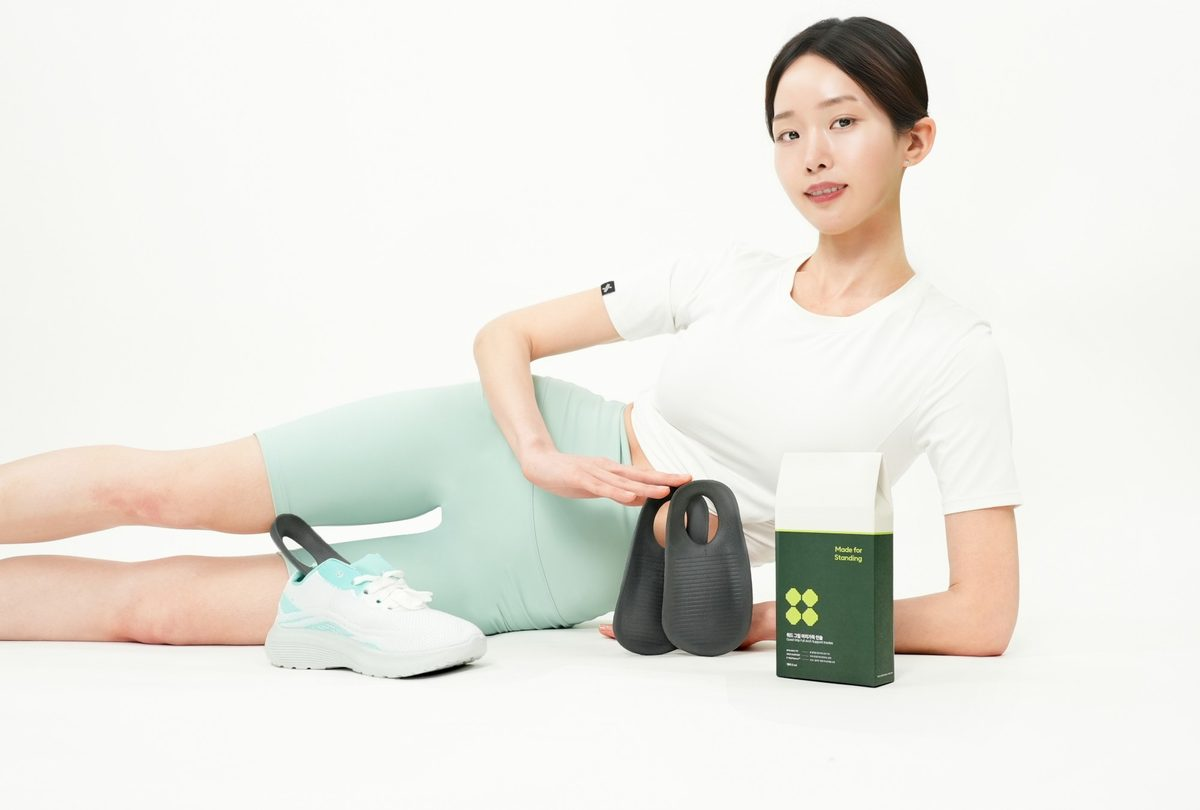
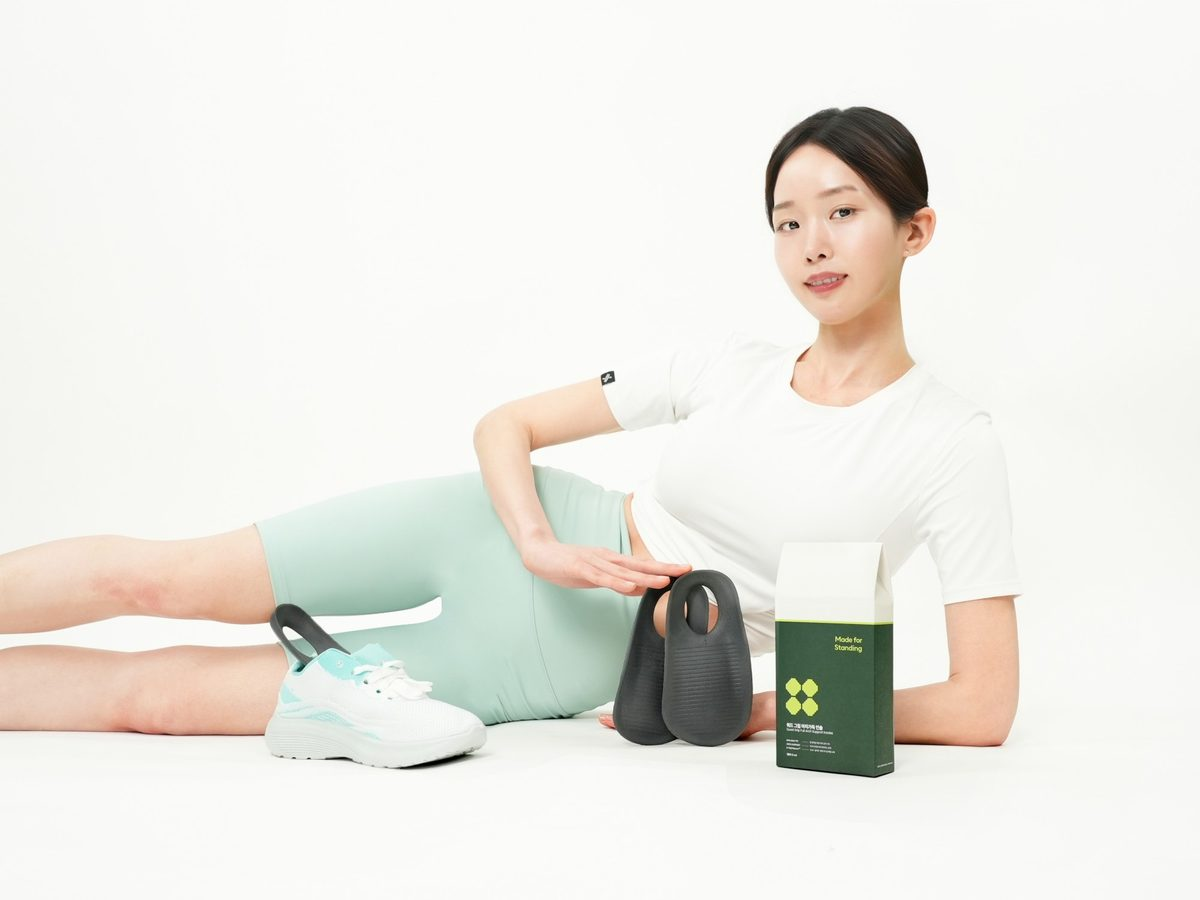
RS 랜딩: 제품 사진 자르지 않고 전체 이미지로 표시
Claude-Session: https://claude.ai/code/session_01WbwBaiEPCZ7zKuMjGg7vqH

Changed region(s): [[0.0, 0.3395, 0.8633, 0.8642], [0.6167, 0.0, 0.8017, 0.463]]

diff --git a/launch/rs/landing/index.html b/launch/rs/landing/index.html
@@ -111,7 +111,6 @@ h2{font-size:22px;line-height:30px;margin:8px 0 12px}
 #brand+.story{border-top:0;padding-top:0}
 .igrid{display:grid;grid-template-columns:repeat(3,1fr);gap:4px;margin-top:20px;border-radius:14px;overflow:hidden}
 .igrid img{width:100%;aspect-ratio:3/4;object-fit:cover;display:block}
-.pair{display:grid;grid-template-columns:1fr 1fr;gap:8px;margin-top:20px}.pair img{width:100%;aspect-ratio:4/3;object-fit:cover;border-radius:12px;display:block;background:var(--s1)}
 .teaser{position:relative;border-radius:16px;overflow:hidden;margin-top:20px;background:var(--s1)}
 .teaser img{width:100%;display:block}
 .teaser .over{position:absolute;left:12px;top:12px;padding:6px 12px;background:var(--forest);color:#fff;border-radius:9999px;display:flex;gap:8px;align-items:center}
@@ -219,11 +218,10 @@ footer a{color:var(--t2)}
     <p class="eyebrow"><b>PRODUCT 01</b> · 와디즈 펀딩 <span class="js-fund"></span> 오픈 예정</p>
     <h2>신던 신발은 그대로,<br>바닥만 새로.</h2>
     <p class="lead">쿼드그립 아치가득 인솔 · 가지고 계신 신발에 넣어 쓰는 아치 인솔.</p>
-    <div class="pair">
-      <img src="img/insole-pack-full.jpg" alt="쿼드그립 아치가득 인솔 실제 제품 그레이 한 쌍과 패키지" loading="lazy">
-      <img src="img/insole-pack-mocha.jpg" alt="쿼드그립 아치가득 인솔 실제 제품 모카무스 한 쌍과 패키지" loading="lazy">
-    </div>
-    <p class="note">실제 제품 사진 · 왼쪽 그레이 · 오른쪽 모카무스</p>
+    <img class="media" src="img/insole-pack-full.jpg" alt="쿼드그립 아치가득 인솔 실제 제품 그레이 한 쌍과 패키지" loading="lazy" style="margin-top:20px">
+    <p class="note">실제 제품 사진 (그레이)</p>
+    <img class="media" src="img/insole-pack-mocha.jpg" alt="쿼드그립 아치가득 인솔 실제 제품 모카무스 한 쌍과 패키지" loading="lazy" style="margin-top:12px">
+    <p class="note">실제 제품 사진 (모카무스)</p>
     <div class="benefits">
       <div><b>아치가득 구조</b><p>발 아치 라인을 따라 가득 채운 형태로 설계했습니다.</p></div>
       <div><b>뒤꿈치 컵 구조</b><p>뒤꿈치를 감싸는 컵 모양입니다.</p></div>

diff --git a/launch/rs/log.md b/launch/rs/log.md
@@ -431,3 +431,4 @@
 - (11/07) 확정: 워킹화 그립 패드 8개(1켤레분) 560원(부가세 별도) → 제품 마스터 원가 칸 기록. 워킹화 원가 추정 갱신 약 6,700~11,900원(중간 약 9,100원).
 - 11/07 랜딩 v5 zip 대표 전달 (배포 예정). /walk 주소 보강용 _redirects 추가.
 - 11/07 대표 실물 사진 4장 랜딩 반영: 랜딩1 첫 화면=모델+그레이 인솔, 인솔 섹션=그레이·모카무스 2장 나란히+운동화 착용 컷(운동화는 촬영 소품 고지), 워킹화 섹션=실물 한 켤레 / 랜딩2 첫 화면=실물 한 켤레, 상품 칸=밑창 클로즈업, 윗면 사진은 아래로. 84번은 기존 그레이 패키지 컷과 동일해 미사용. v5 zip 재생성(26개 파일, 깨진 이미지·오류 0).
+- 11/07 대표 지적: 인솔 2장 나란히 칸이 사진을 잘라먹음 → 나란히 배치 삭제, 그레이·모카무스 전체 이미지 위아래로. 새 실물 4장도 여백 자르지 않은 원본 비율로 재저장. 규칙: 랜딩 제품 사진은 잘라서 칸에 맞추지 않는다(전체 이미지).
